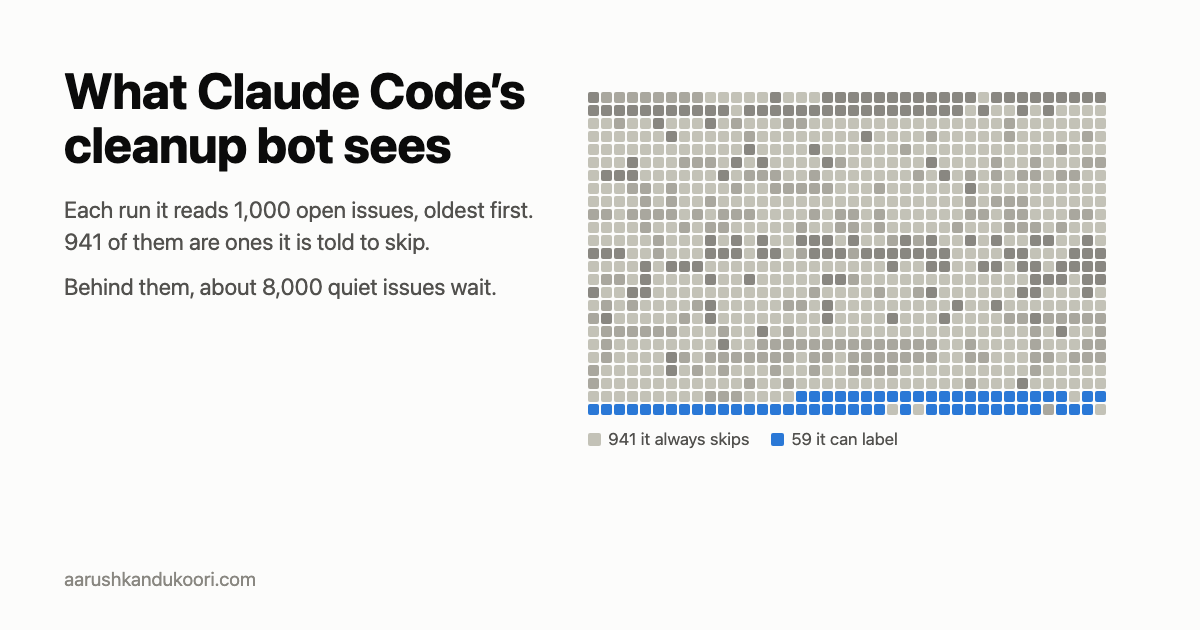
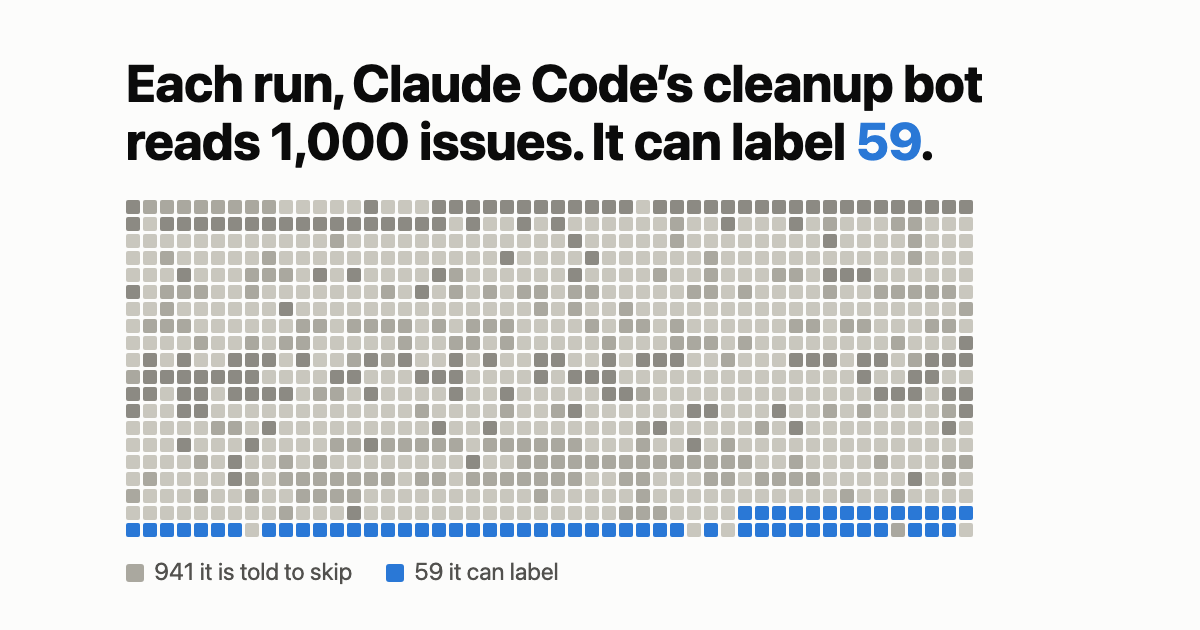
Fix post header image breaking the page layout; pin and tidy the Claude Code post
refactor-content treated any image as already linked when '</a>' appeared anywhere
later in the page, so an unlinked post header image got its surrounding tags
rewritten. That dropped the opening of the author/readtime div, and the stray
closing tag pushed the sidebar and the related-posts block out of place. Now the
image counts as linked only when the tag right before it opens an <a>.

Also: shorter description, pinned to the top of the home feed, a banner that
survives the home card crop, a shorter caption, and the search query split so the
code block fits on phones.

diff --git a/_includes/refactor-content.html b/_includes/refactor-content.html
@@ -204,7 +204,20 @@
       <!-- make sure the `<img>` is wrapped by `<a>` -->
       {% assign _after_img = _right | remove_first: '>' | strip %}
 
+      <!--
+        The <img> is already linked only when the tag right before it opens an <a>.
+        Checking for any '</a>' later in the page also matched images with no link
+        (like the post header image) and broke the markup around them.
+      -->
+      {% assign _wrapped_by_link = false %}
       {% if _after_img contains '</a>' %}
+        {% assign _tag_before = _img_content | strip | split: '<' | last | slice: 0, 2 %}
+        {% if _tag_before == 'a ' or _tag_before == 'a>' %}
+          {% assign _wrapped_by_link = true %}
+        {% endif %}
+      {% endif %}
+
+      {% if _wrapped_by_link %}
         <!-- add class to existing <a> tag (insert before its closing >) -->
         {% assign _img_content_stripped = _img_content | strip %}
         {% capture _anchor_class %}

diff --git a/_posts/2026-11-06-claude-code-open-issues.md b/_posts/2026-11-06-claude-code-open-issues.md
@@ -3,10 +3,11 @@ title: "Claude Code Has 16,112 Open Issues. Its Cleanup Bot Can Reach 59 a Run."
 date: 2026-11-06 21:50:00 -05:00
 categories: [Writing, Research]
 tags: [claude-code, ai-agents, open-source, github, triage, statistics]
-description: "A Reddit thread asked why 98% of Claude Code's open GitHub issues have nobody assigned. I used Claude Code to triage 1,000 of them with sandboxed agents, with fresh agents double-checking every fixed, duplicate and security call. The best find was the cleanup script, which spends more than 90% of every run on issues it isn't allowed to touch."
+description: "I triaged 1,000 of Claude Code's open GitHub issues with sandboxed Claude agents, and found the cleanup bot spending 94% of every run on issues it isn't allowed to touch."
+pin: true
 image:
   path: /assets/files/claude-code-open-issues/social.png
-  alt: "A grid of 1,000 cells, one per open issue the cleanup bot reads each run. 941 are gray, issues it is told to skip, and 59 are blue, issues it can label."
+  alt: "One run of the cleanup bot: 941 issues it is told to skip, 59 it can label."
 ---
 
 A post on r/ClaudeAI this week, by u/nseavia71501, asked Anthropic a fair question. Citing the company's own engineering blog, it said Anthropic merges more than 30,000 code changes a day. So why are 98% of the open issues in the public [Claude Code repo](https://github.com/anthropics/claude-code) unassigned, some of them serious security bugs?
@@ -50,7 +51,10 @@ The popular issues jamming the window are mostly old bug reports. 442 of the 599
 The code fix is to let GitHub's search do the skipping. One query returns only the issues the sweep is allowed to label:
 
 ```text
-is:issue is:open is:unlocked no:assignee -label:stale -label:autoclose updated:<CUTOFF reactions:<10
+is:issue is:open is:unlocked
+no:assignee
+-label:stale -label:autoclose
+updated:<CUTOFF reactions:<10
 ```
 
 In plain words, it asks for open issues that aren't locked, assigned or already marked stale, haven't changed since the cutoff date, and have fewer than 10 reactions. On the evening of November 6 it returned 8,000. With it, every issue the sweep looks at is one it can label. GitHub limits how fast one bot can write, so my version caps each run at 300 labels, a couple of seconds apart. That's five times today's rate, and it works through today's pile in about three weeks. I haven't run it live yet, because GitHub rate-limited my read-only test runs, so those numbers come from the snapshot and that one live count.
